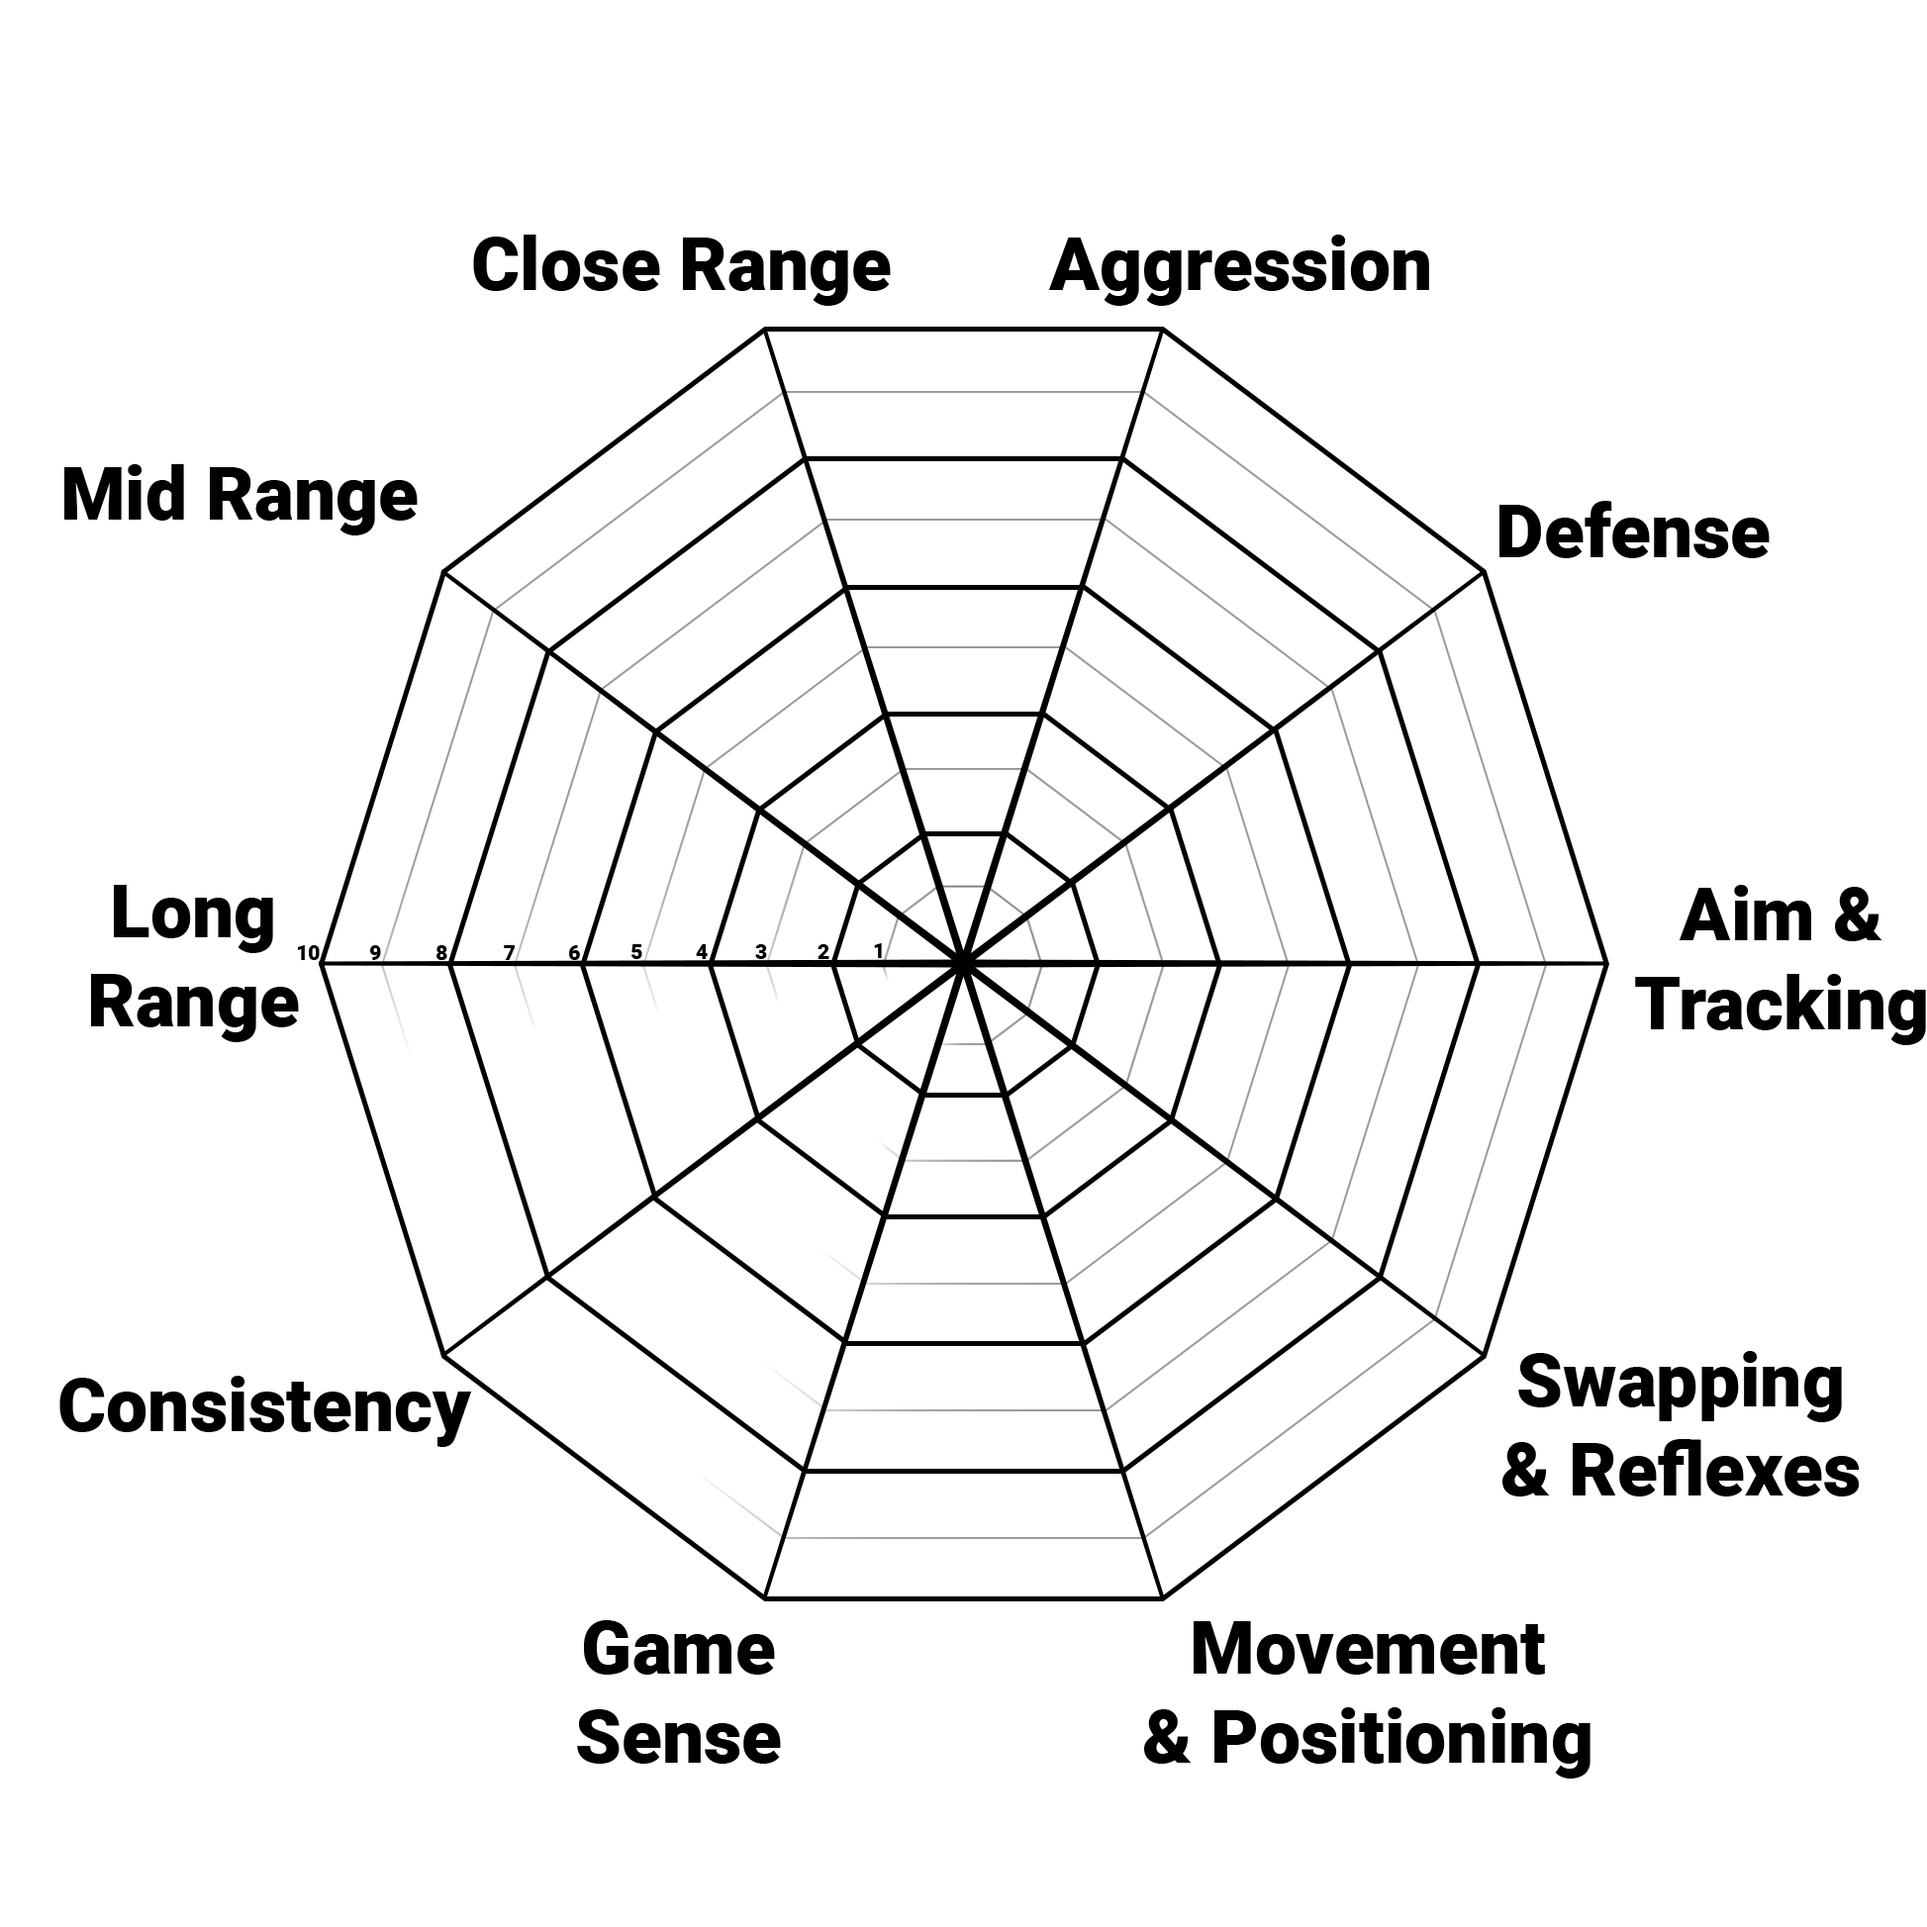
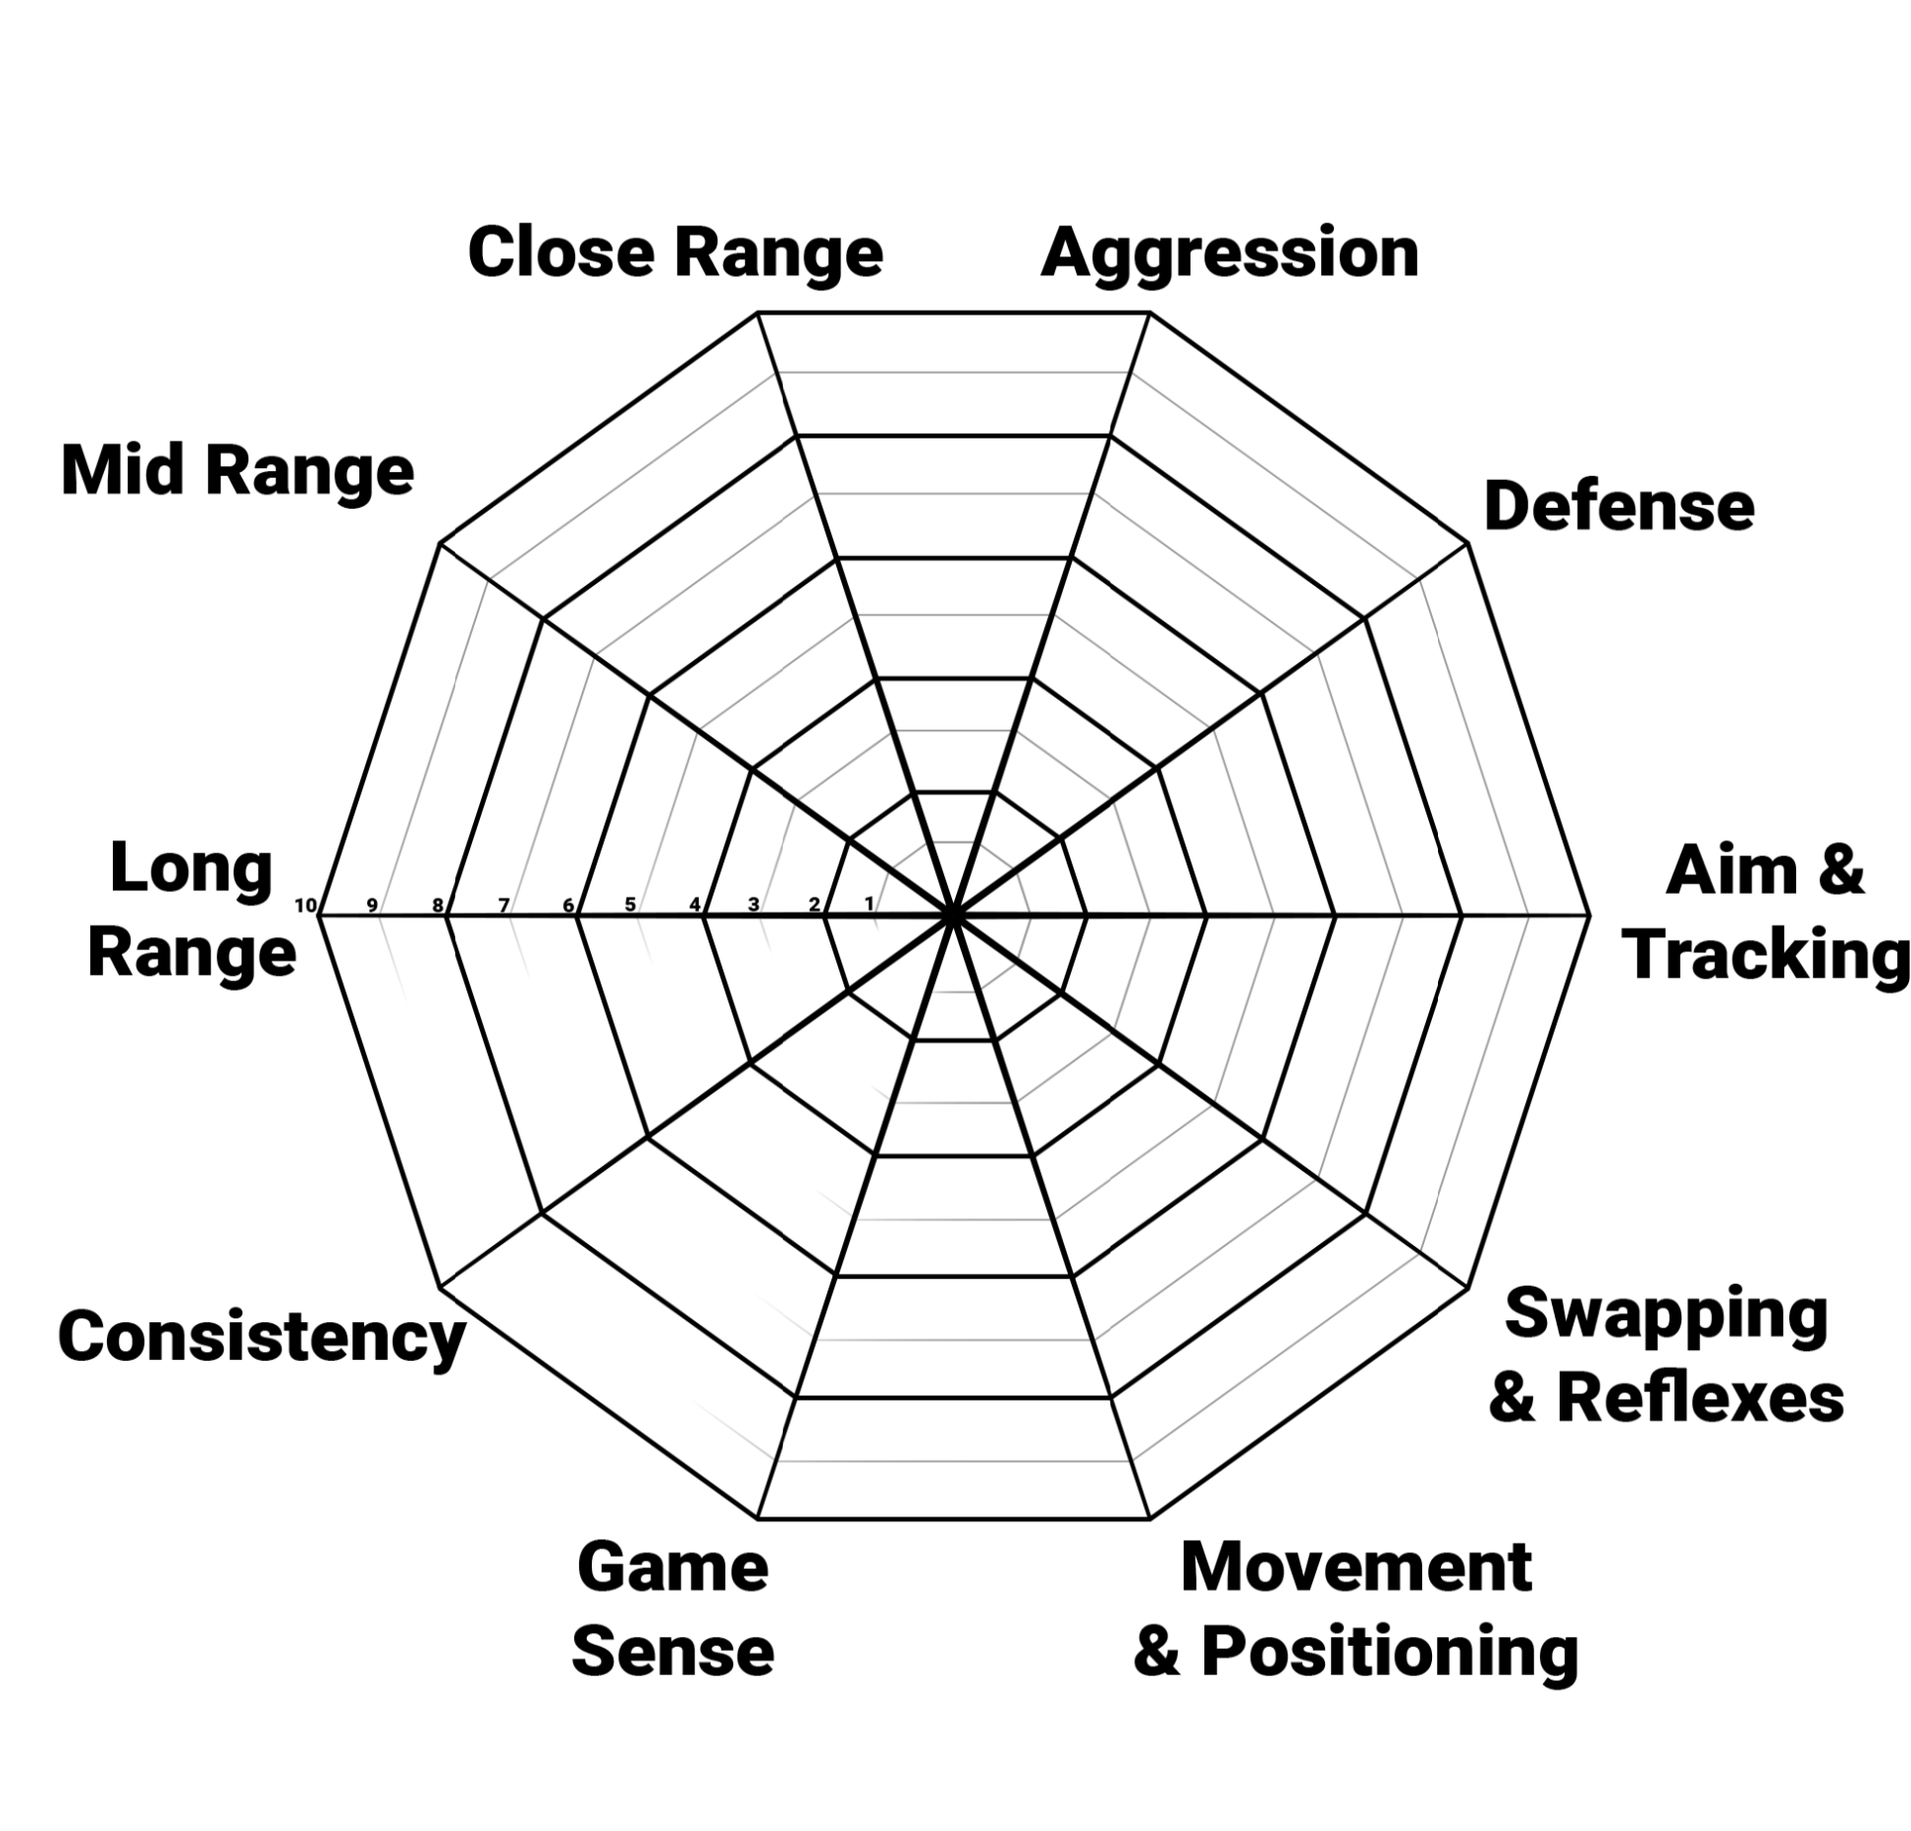
Align polygon

diff --git a/docs/gen.js b/docs/gen.js
@@ -46,7 +46,7 @@ document.addEventListener("DOMContentLoaded", function() {
     function draw() {
         const centerX = polygonCanvas.width / 2;
         const centerY = polygonCanvas.height / 2;
-        const radius = Math.min(centerX, centerY) * 0.67;
+        const radius = Math.min(centerX, centerY) * 0.69;
         const angleStep = (2 * Math.PI) / attributes.length;
 
         // Clear both canvases
